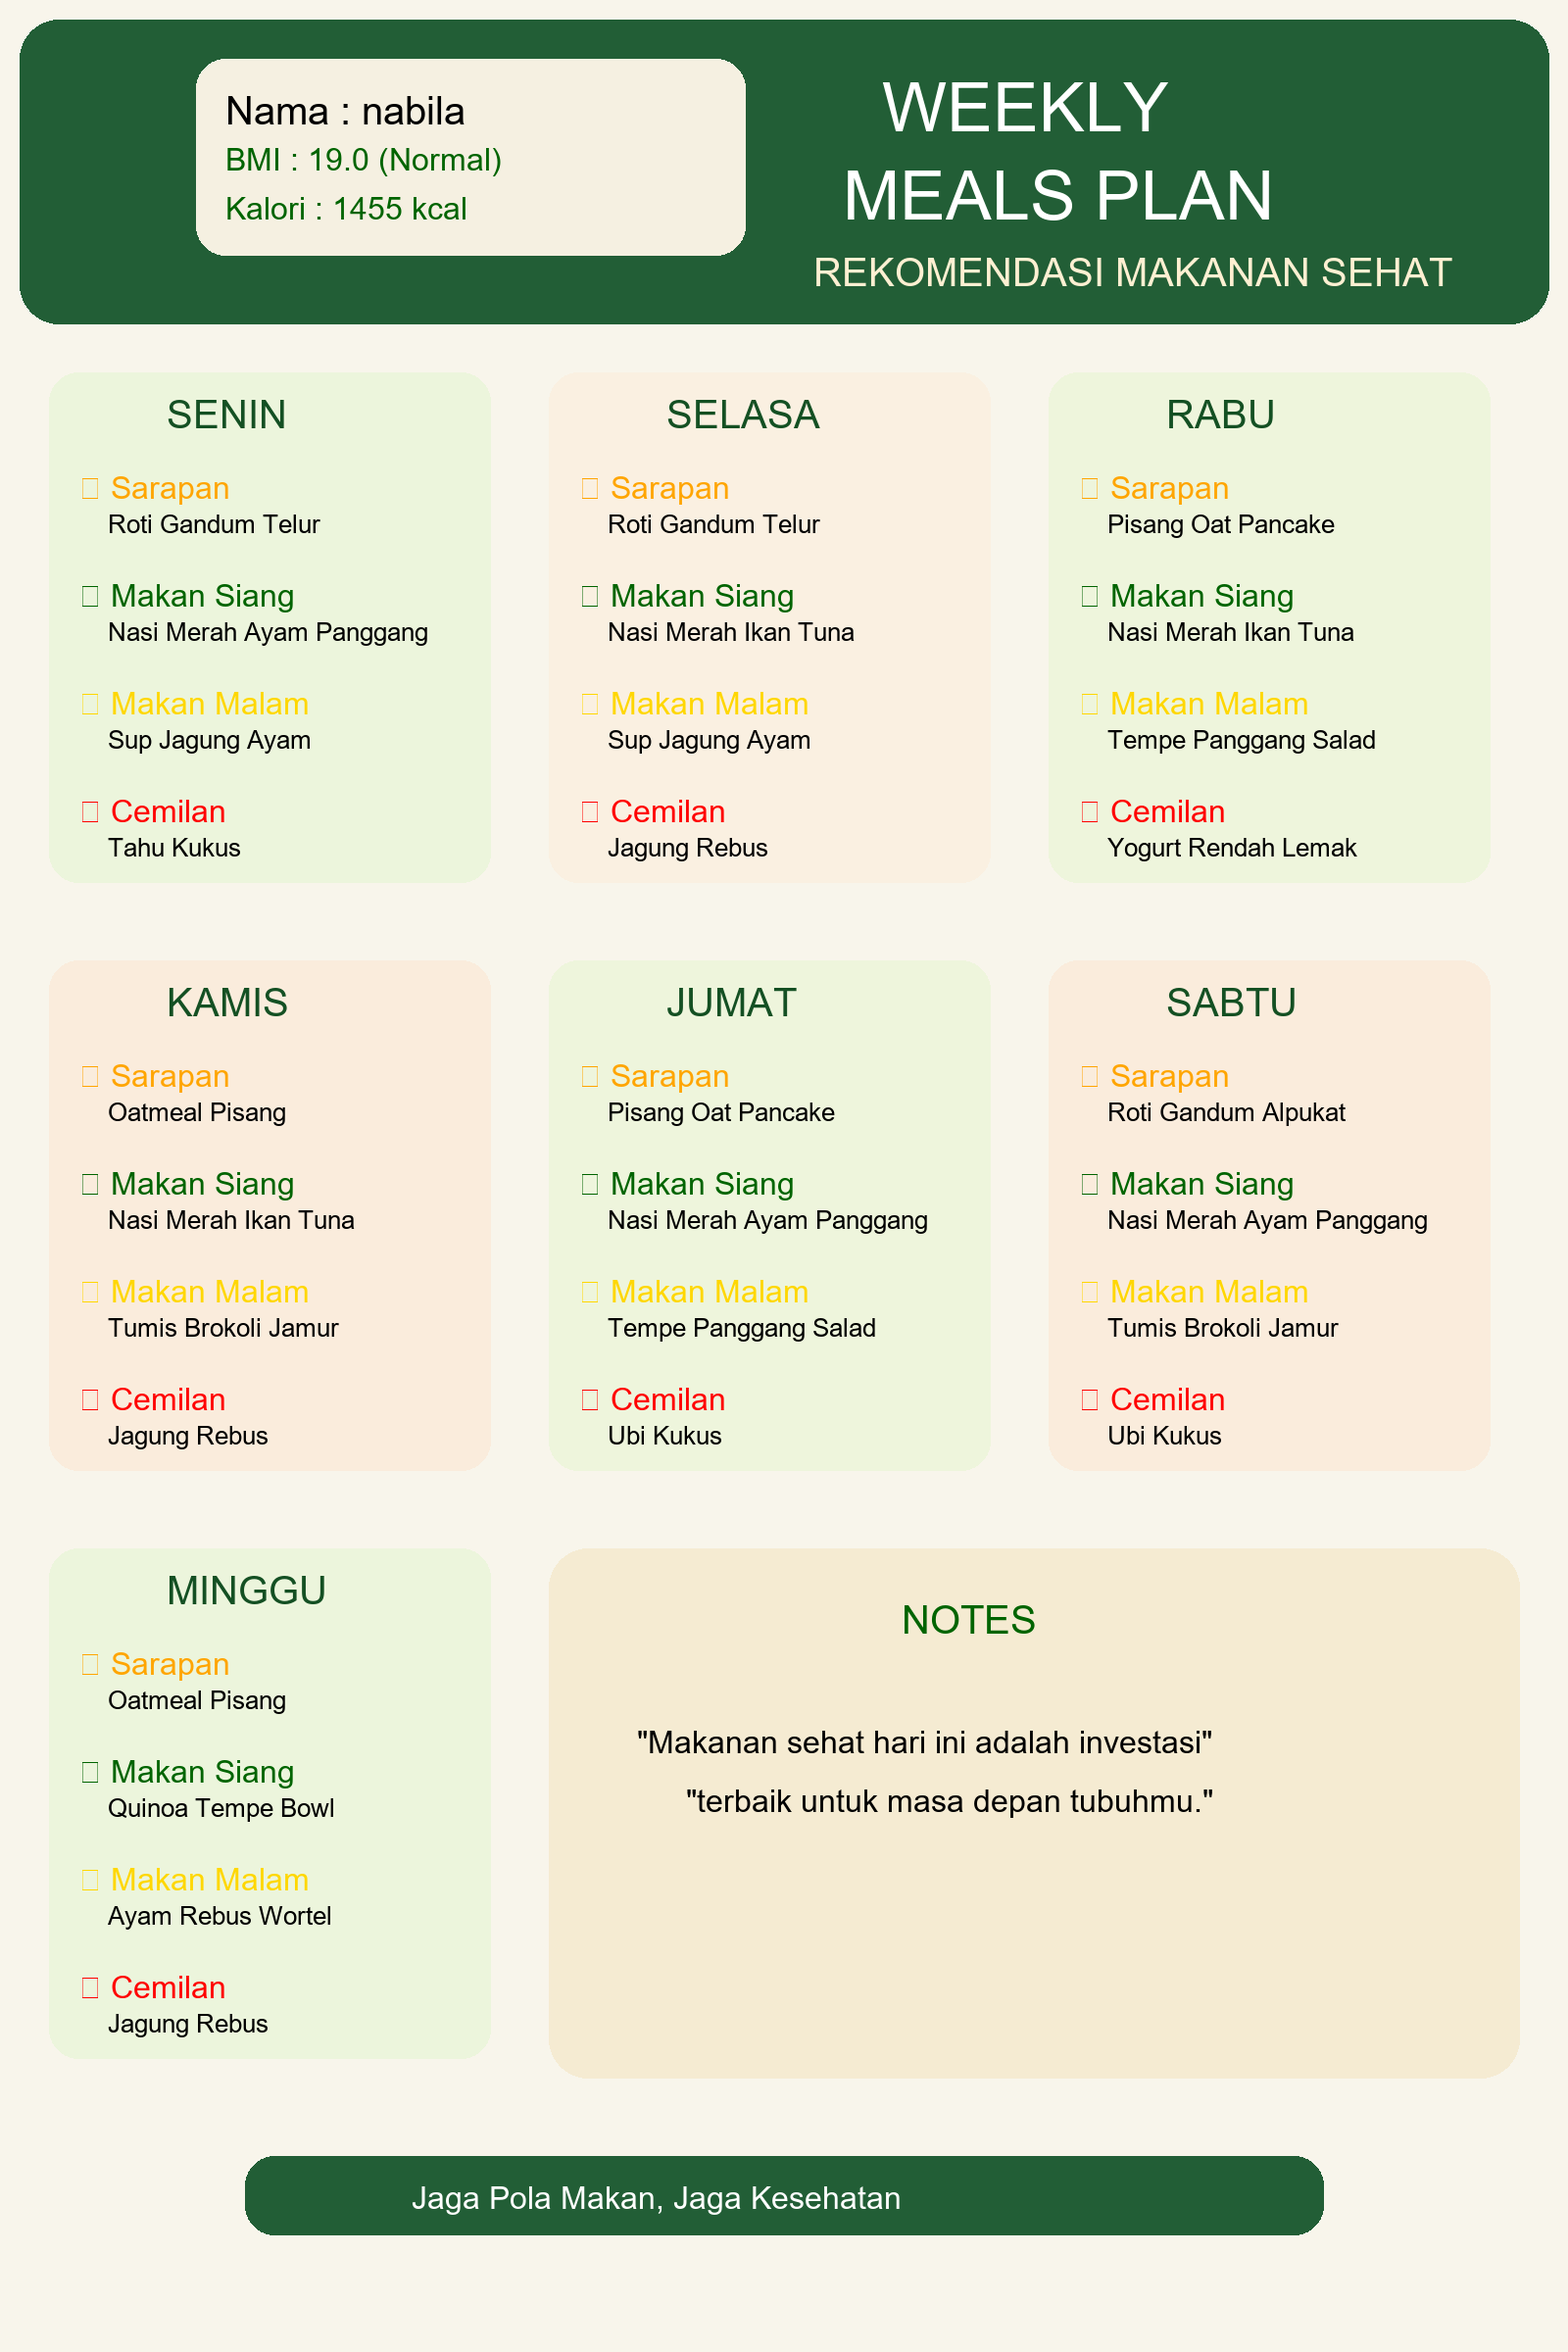
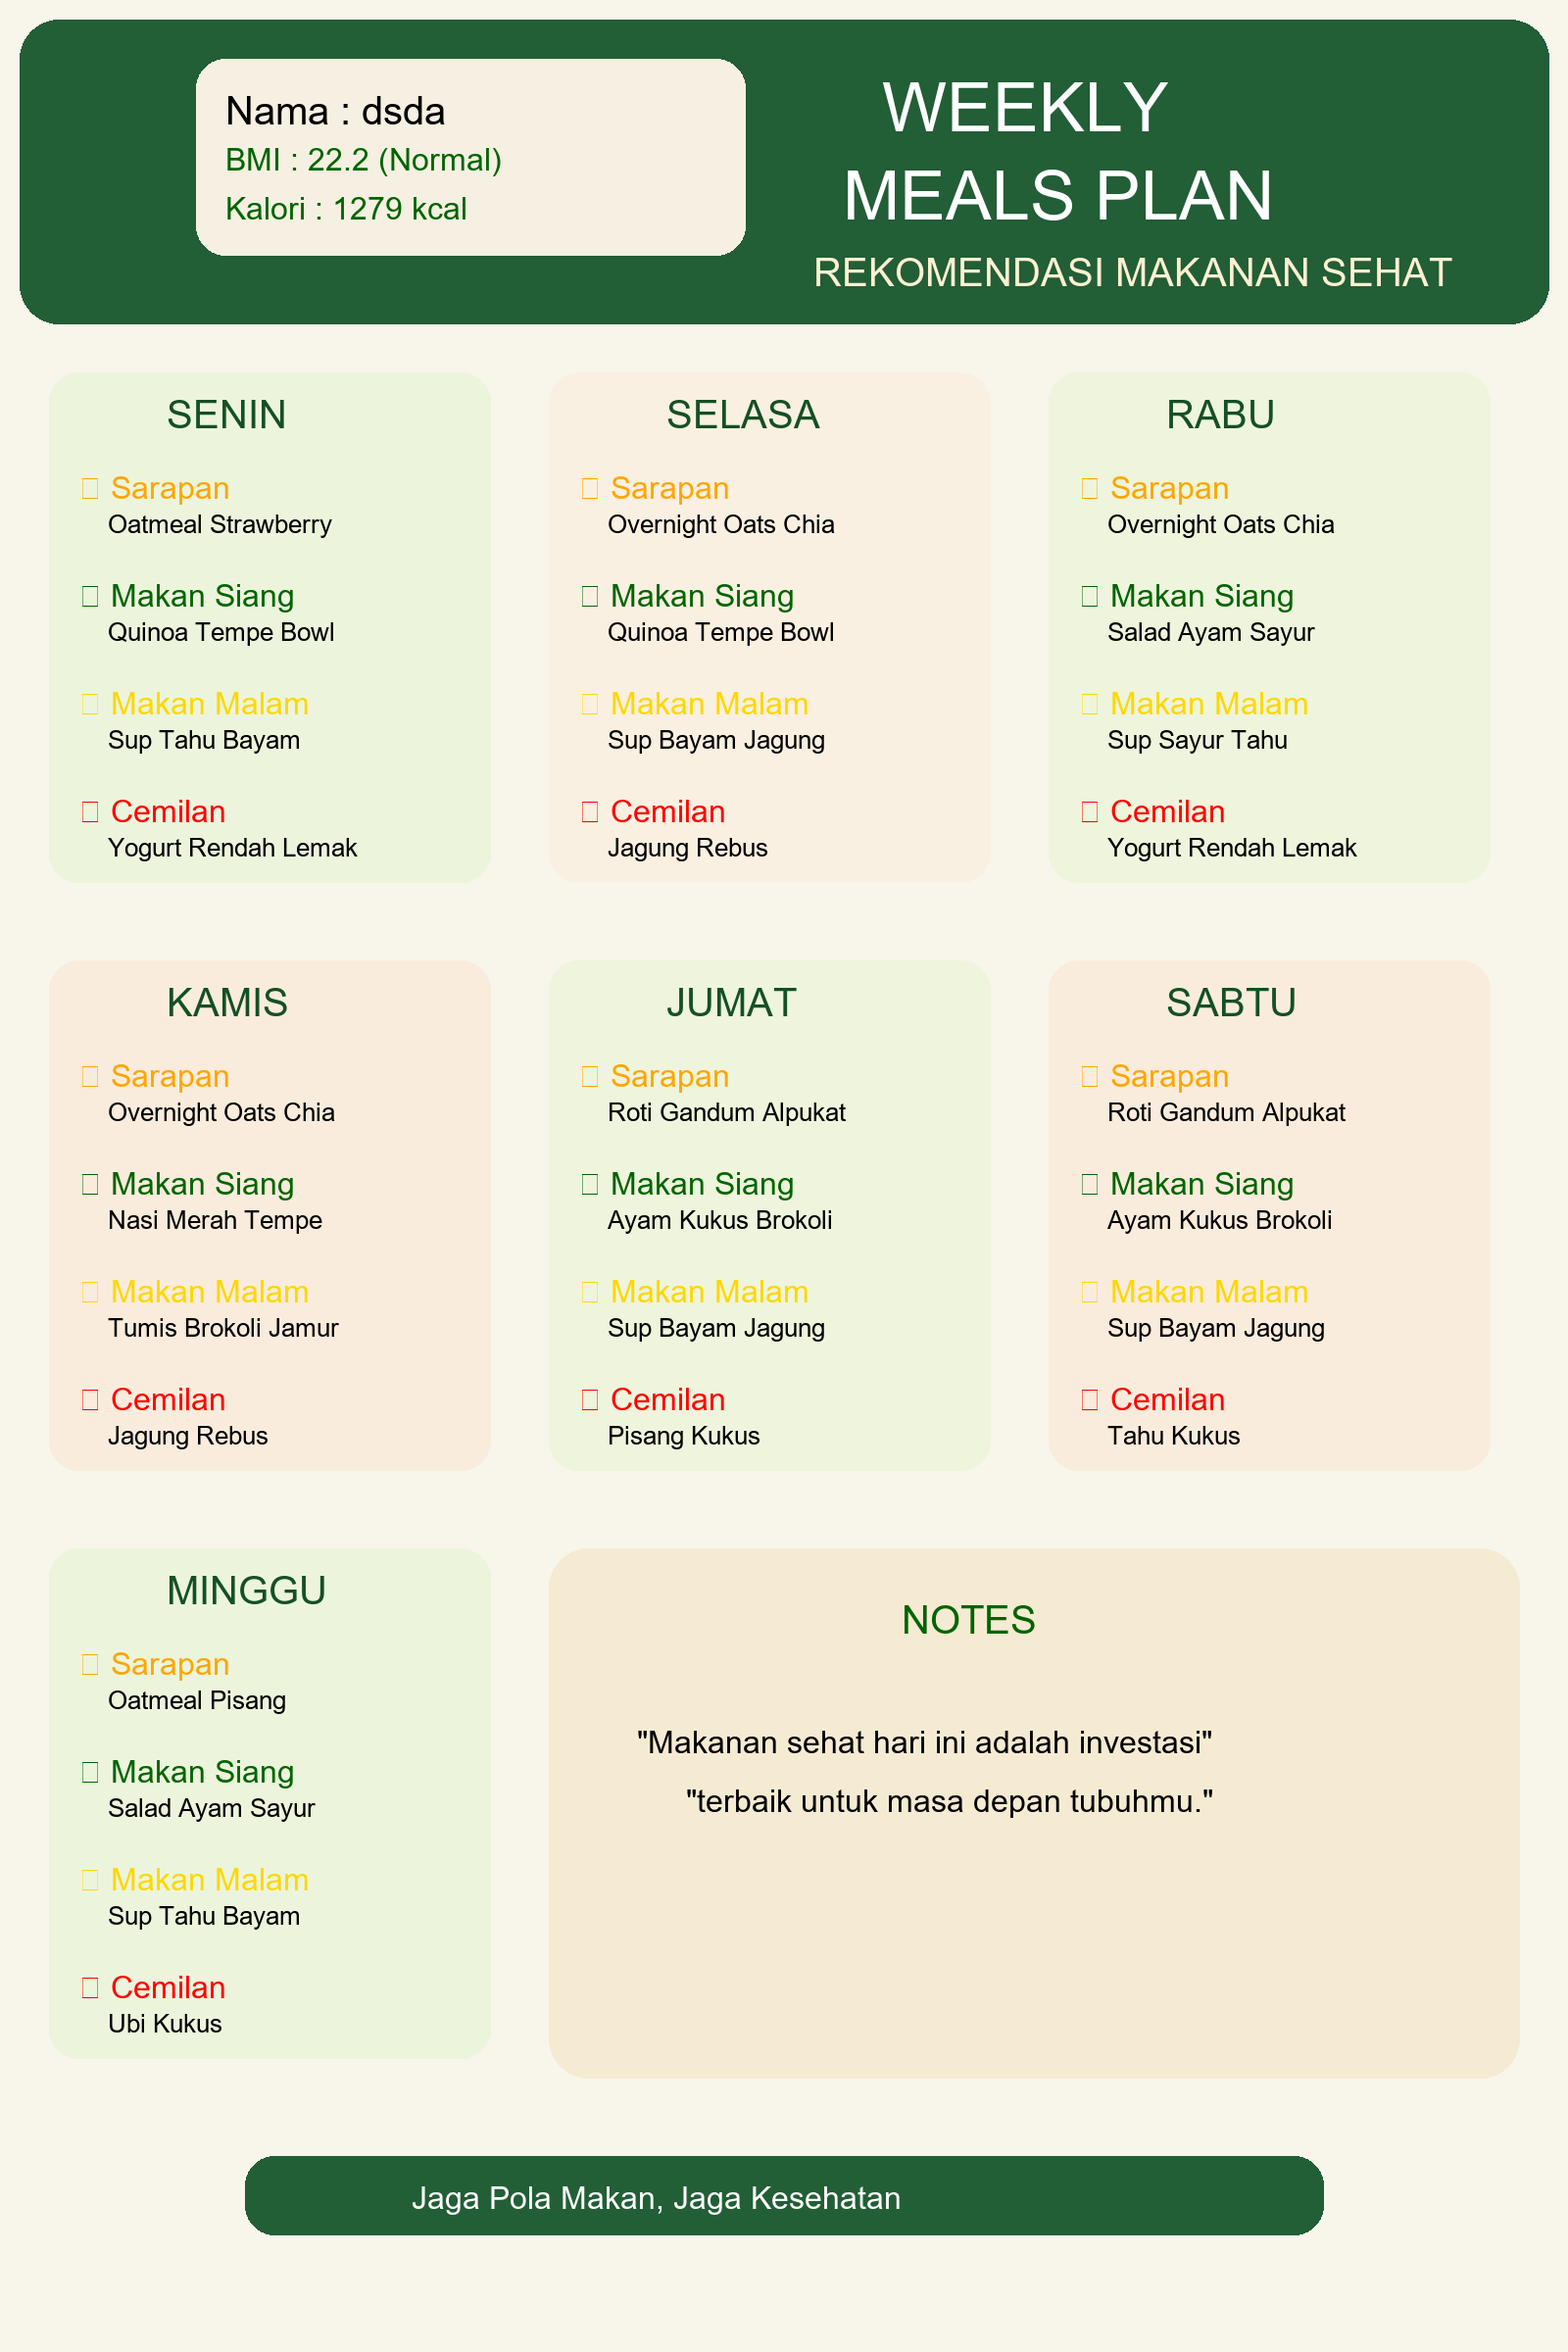
fix: download pakai BytesIO

diff --git a/Downloads/sistem_rekomendasi_makanan/sistem_rekomendasi_makanan/app.py b/Downloads/sistem_rekomendasi_makanan/sistem_rekomendasi_makanan/app.py
@@ -743,15 +743,16 @@ def download_hasil():
 
     # =====================================================
     # SAVE
-    # =====================================================
-    file_path = 'hasil_rekomendasi.png'
-
-    img.save(file_path)
-
-    return send_file(
-        file_path,
-        as_attachment=True
-    )
+    # =====================================================import io
+img_io = io.BytesIO()
+img.save(img_io, 'PNG')
+img_io.seek(0)
+return send_file(
+    img_io,
+    mimetype='image/png',
+    as_attachment=True,
+    download_name='hasil_rekomendasi.png'
+)
 
 # =========================================================
 # FEEDBACK
